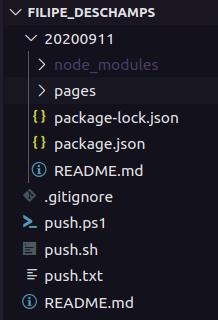
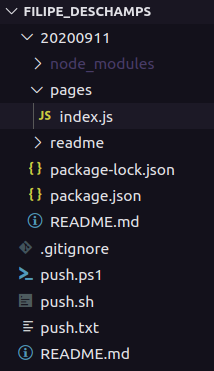
first page

Changed region(s): [[0.0841, 0.0, 0.8131, 0.9688], [0.028, 0.0, 0.0841, 0.0625]]

diff --git a/20200911/pages/index.js b/20200911/pages/index.js
@@ -1,0 +1,28 @@
+import { useState } from "react";
+
+function Home() {
+    return (
+        <div>
+            <h1>Home</h1>
+            <Contador />
+            <div>Teste</div>
+        </div>
+    )
+}
+
+function Contador() {
+    const [contador, setContador] = useState(1);
+
+    function adicionarContador() {
+        setContador(contador + 1);
+    }
+
+    return (
+        <div>
+          <div>{contador}</div>
+          <button onClick={adicionarContador}>Adicionar</button>
+        </div>
+    )
+}
+
+export default Home;

diff --git a/20200911/README.md b/20200911/README.md
@@ -32,7 +32,7 @@ or
 npm install next react react-dom
 ```
 
-### Create a ```pages``` folder and an ```index.js``` file inside
+### Create a ```pages``` folder and an ```index.js``` file inside (or ```index.ts```)
 
 ![Pages](./readme/screenshot01.png)  
 
